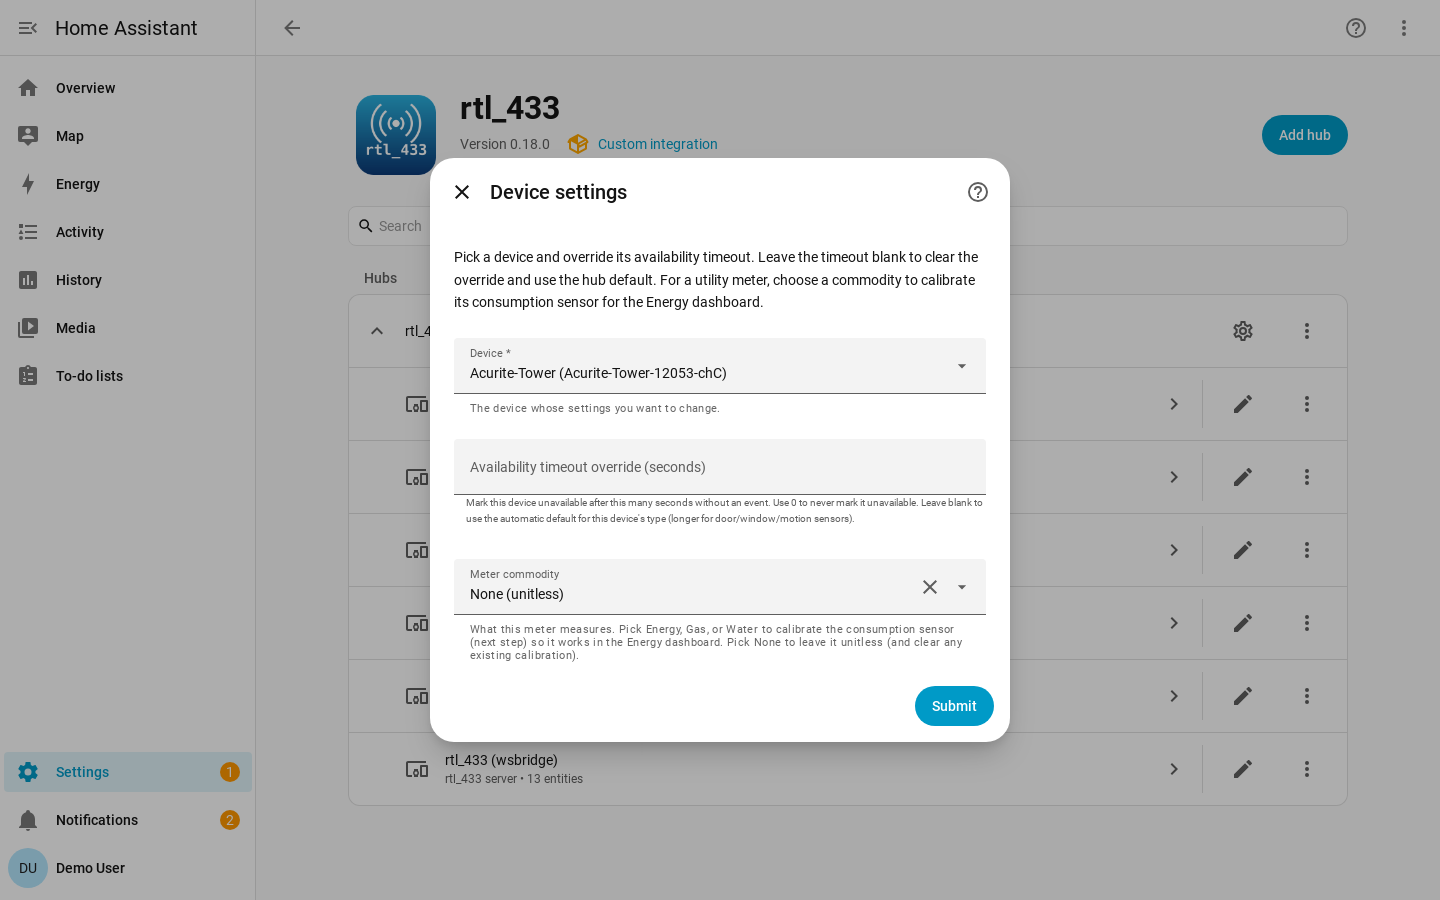
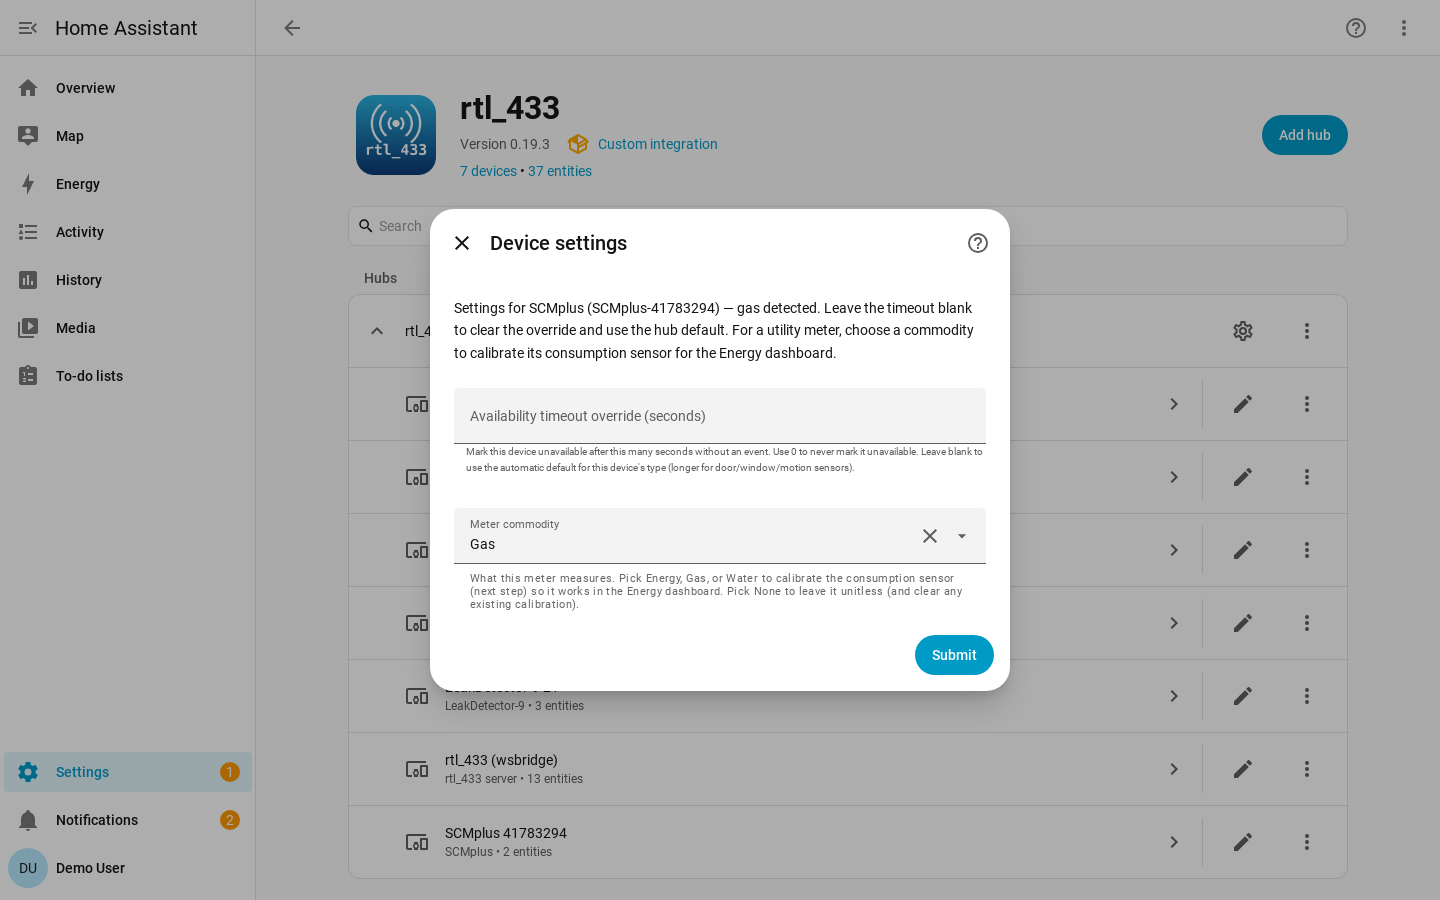
docs(calibration): add screenshots for the three-step calibration flow
The Utility-Meter Calibration page described the flow in prose against a
single screenshot of the old combined Device settings form, which no
longer exists now that the device picker is its own step.

Restructure the page around the three steps it actually has, with a
captured screenshot for each: the picker (showing the meter labelled
"— gas detected"), the per-device settings form (commodity pre-filled to
Gas), and the base-unit/scale form. Also update docs/configuration.md,
which referenced the same stale device-settings shot.

Harness changes to produce them:

- Add a SCMplus utility-meter fixture (real decoder field names, incl.
  `Consumption` and `MeterType`) and replay it, so the screenshots show a
  real detected-commodity meter rather than a generic power sensor. This
  also exercises the `Consumption` field key end-to-end: the sensor is
  created and the calibration overlay applies, with no YAML.
- Drive the split device/device_settings/calibration path in
  screenshot.mjs and capture the new `13-device-picker.png`.
- Gate `openOptionsMenu` on the integration card rendering and retry the
  gear click: a fixed sleep races the frontend's "Loading data" splash on
  a cold load, and clicking through it silently produced no dialog.
- Note the second batch of Chromium system libs Debian 13 asks for.

Claude-Session: https://claude.ai/code/session_019bHYTrs99Z6VXCKUcTV3Fw

Changed region(s): [[0.2812, 0.4978, 0.7188, 0.84], [0.2812, 0.1556, 0.7188, 0.4667], [0.2812, 0.9022, 0.375, 0.9644]]

diff --git a/docs/calibration.md b/docs/calibration.md
@@ -10,11 +10,30 @@ make it eligible for Home Assistant's Energy dashboard, calibrate the device.
 
 ## Calibration Flow
 
-Open **Settings → Devices & Services → rtl_433 → Configure → Device settings**
-and pick the meter. Meters whose commodity the integration recognized from the
-signal are labelled with it in the picker (for example
-`SCMplus (SCMplus-1234) — gas detected`). The next step sets that device's
-consumption calibration.
+Open **Settings → Devices & Services → rtl_433 → Configure → Device settings**.
+Calibration takes three short steps.
+
+### 1. Pick the meter
+
+Meters whose commodity the integration recognized from the signal are labelled
+with it in the picker, so you can tell at a glance which devices are calibratable
+and what they measure.
+
+![The device picker, with the SCMplus meter labelled "gas detected"](images/13-device-picker.png)
+
+### 2. Choose the commodity
+
+When the meter reports a `MeterType` or `ert_type` hint, the commodity is
+pre-filled from it — for the device you picked, however many meters the hub has.
+You can override it. Re-editing an already-calibrated device pre-fills its stored
+commodity, unit and scale.
+
+Choosing `none` here clears any existing calibration and leaves the counter
+unitless.
+
+![The device settings step for the gas meter, with the meter commodity pre-filled to Gas](images/08-device-settings.png)
+
+### 3. Set the base unit and scale
 
 | Field | Meaning |
 | --- | --- |
@@ -22,21 +41,16 @@ consumption calibration.
 | **Base unit** | The unit the calibrated counter is expressed in, constrained to Home Assistant units for that commodity. |
 | **Scale** | Multiplier applied to the raw counter so the stored value is in the chosen base unit. |
 
-When the meter reports a `MeterType` or `ert_type` hint, the commodity is
-pre-filled from it — for the device you selected, however many meters the hub
-has. You can override it. Re-editing an already-calibrated device pre-fills its
-stored commodity, unit and scale.
-
-The counter field itself needs no configuration: SCM and ERT meters report
-`consumption_data` and SCMplus meters report `Consumption`, and both ship in the
-device library. Neither requires a YAML override.
-
-![The calibration step for an energy meter, with a base-unit selector and a scale multiplier](images/12-calibration.png)
+![The calibration step for a gas meter, with a base-unit selector and a scale multiplier](images/12-calibration.png)
 
 Once calibrated, the consumption sensor gets a real device class, native unit,
 and `state_class: total_increasing`. You do not need to pick the display unit in
 the calibration flow: Home Assistant can convert convertible units in the entity
 settings.
+
+The counter field itself needs no configuration: SCM and ERT meters report
+`consumption_data` and SCMplus meters report `Consumption`, and both ship in the
+device library. Neither requires a YAML override.
 
 ## Statistics Caveat
 

diff --git a/tests/integration/README.md b/tests/integration/README.md
@@ -28,16 +28,17 @@ stream stops. Playwright captures these screenshots (see `../../screenshots/`):
 | `05-mapping-overrides.png` | The **Device mappings** step: the YAML editor pre-filled with an example per-hub override |
 | `06-config-user.png` | The config-flow connection form (host / port / path / toggles / initial frequency) |
 | `07-hub-settings.png` | The **Hub settings** step (discovery, default availability timeout, managed settings) |
-| `08-device-settings.png` | The **Device settings** step (device picker, timeout override, meter commodity) |
+| `13-device-picker.png` | The **Device settings** device picker, with the SCMplus meter labelled `— gas detected` from its `MeterType` |
+| `08-device-settings.png` | The per-device settings step for that meter (timeout override, meter commodity pre-filled to Gas) |
 | `09-home-hero.png` | The integration overview: one hub with its nested devices (docs home-page hero) |
 | `10-diagnostics.png` | A device page with the signal-diagnostic sensors (frequency / RSSI / SNR / noise) enabled and populated |
 | `11-event-entity.png` | A doorbell device page with its `event` entity and activity log |
-| `12-calibration.png` | The utility-meter **calibration** step (base unit + scale) |
+| `12-calibration.png` | The utility-meter **calibration** step for that gas meter (base unit + scale) |
 
 Only the doc-referenced PNGs are copied into `docs/images/` and committed; the
 `screenshots/` output directory itself is gitignored.
 
-The doorbell / energy meter / door / leak devices in the richer shots come from
+The doorbell / energy meter / SCMplus gas meter / door / leak devices in the richer shots come from
 `ws-bridge.mjs` replaying the project fixtures in `tests/fixtures/` (configured
 via `FIXTURE_FILES` in `docker-compose.yml`) alongside the live Acurite capture.
 
@@ -69,8 +70,13 @@ sudo npx playwright install-deps chromium   # system libs (see note below)
 > ```bash
 > sudo apt-get install -y libatk1.0-0 libatk-bridge2.0-0 libatspi2.0-0 \
 >   libxdamage1 libxkbcommon0 libnss3 libcups2 libdrm2 libgbm1 \
->   libpango-1.0-0 libcairo2 libasound2
+>   libpango-1.0-0 libcairo2 libasound2 \
+>   libxcomposite1 libxfixes3 libxrandr2
 > ```
+>
+> Chromium reports missing libs in batches, so a first run can still fail after
+> installing the list above; the three `libx*` packages on the last line are the
+> ones it asks for second.
 
 ## Running
 

diff --git a/docs/configuration.md b/docs/configuration.md
@@ -80,9 +80,14 @@ timeout for every device on the hub:
 ![Hub settings step with the discovery toggle, default availability timeout, and managed-settings toggle](images/07-hub-settings.png)
 
 The **Device settings** step targets one device for a timeout override, motion
-clear delay, or utility-meter calibration:
+clear delay, or utility-meter calibration. You pick the device first, then
+configure it — every field on the second form is pre-filled from the device you
+picked, and fields that do not apply to it (such as the motion clear delay on a
+non-motion device) are hidden:
 
-![Device settings step with a device picker, availability timeout override, and meter commodity selector](images/08-device-settings.png)
+![Device picker step, with a utility meter labelled with its detected commodity](images/13-device-picker.png)
+
+![Device settings step with the availability timeout override and meter commodity selector](images/08-device-settings.png)
 
 Changing discovery or timeout options applies live. Changing the managed-settings
 toggle reloads the hub because the entity set changes.
